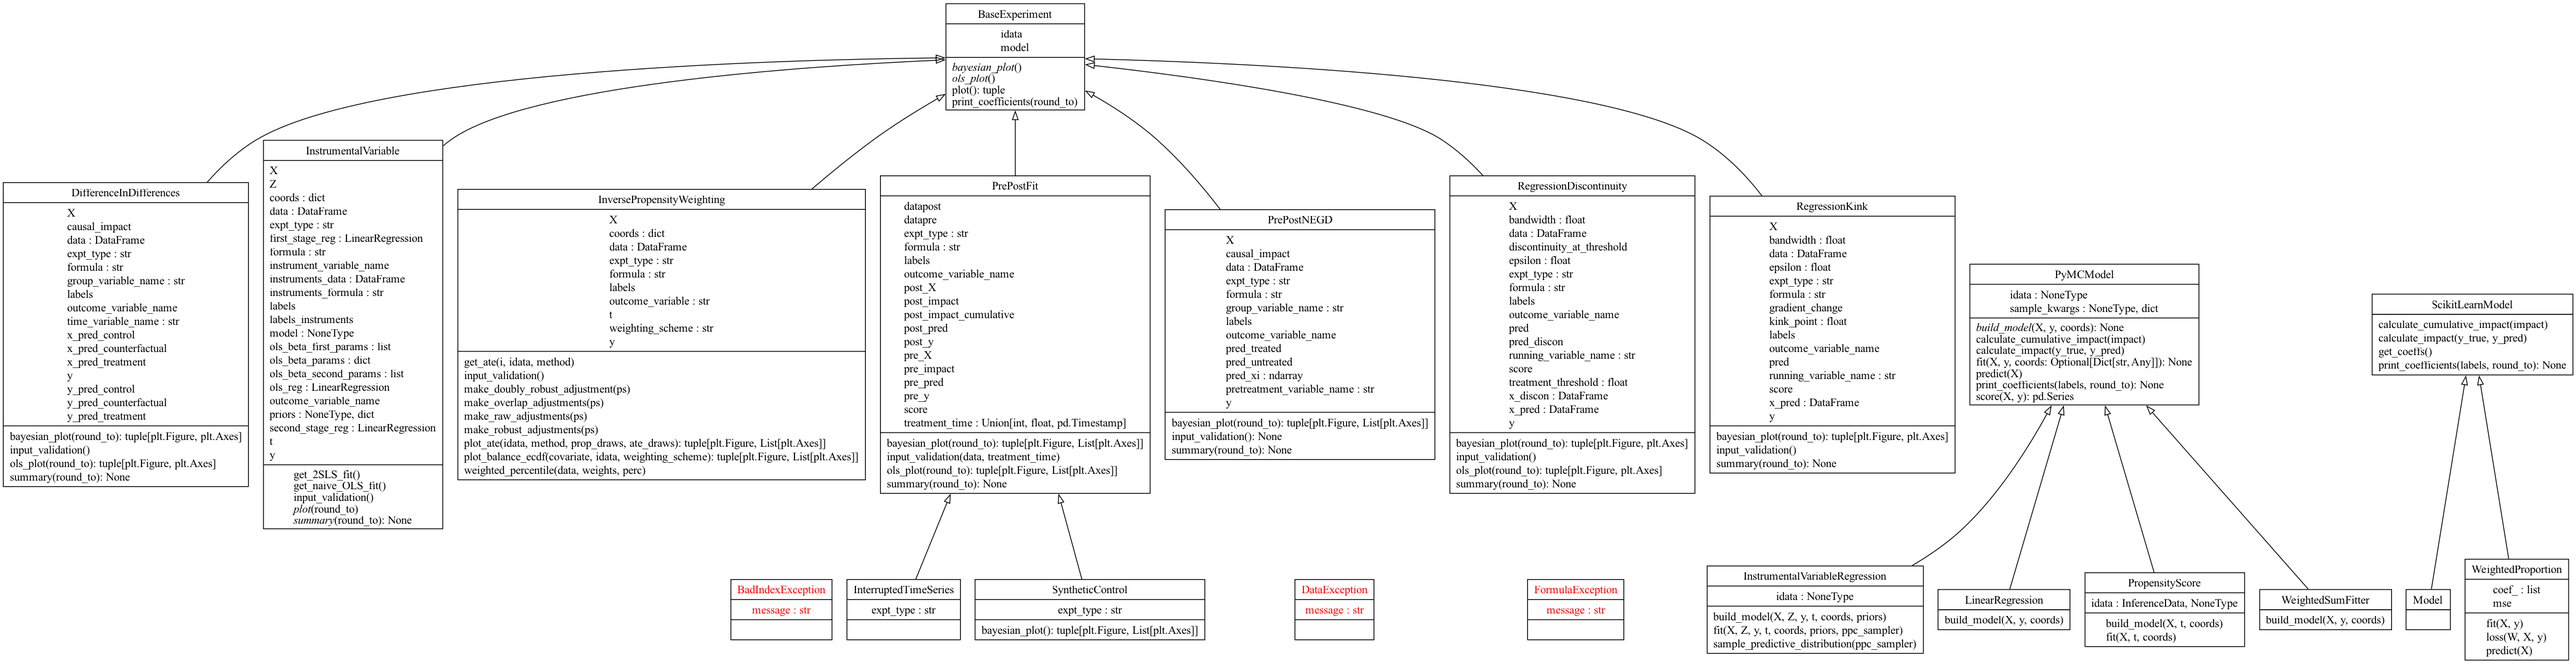
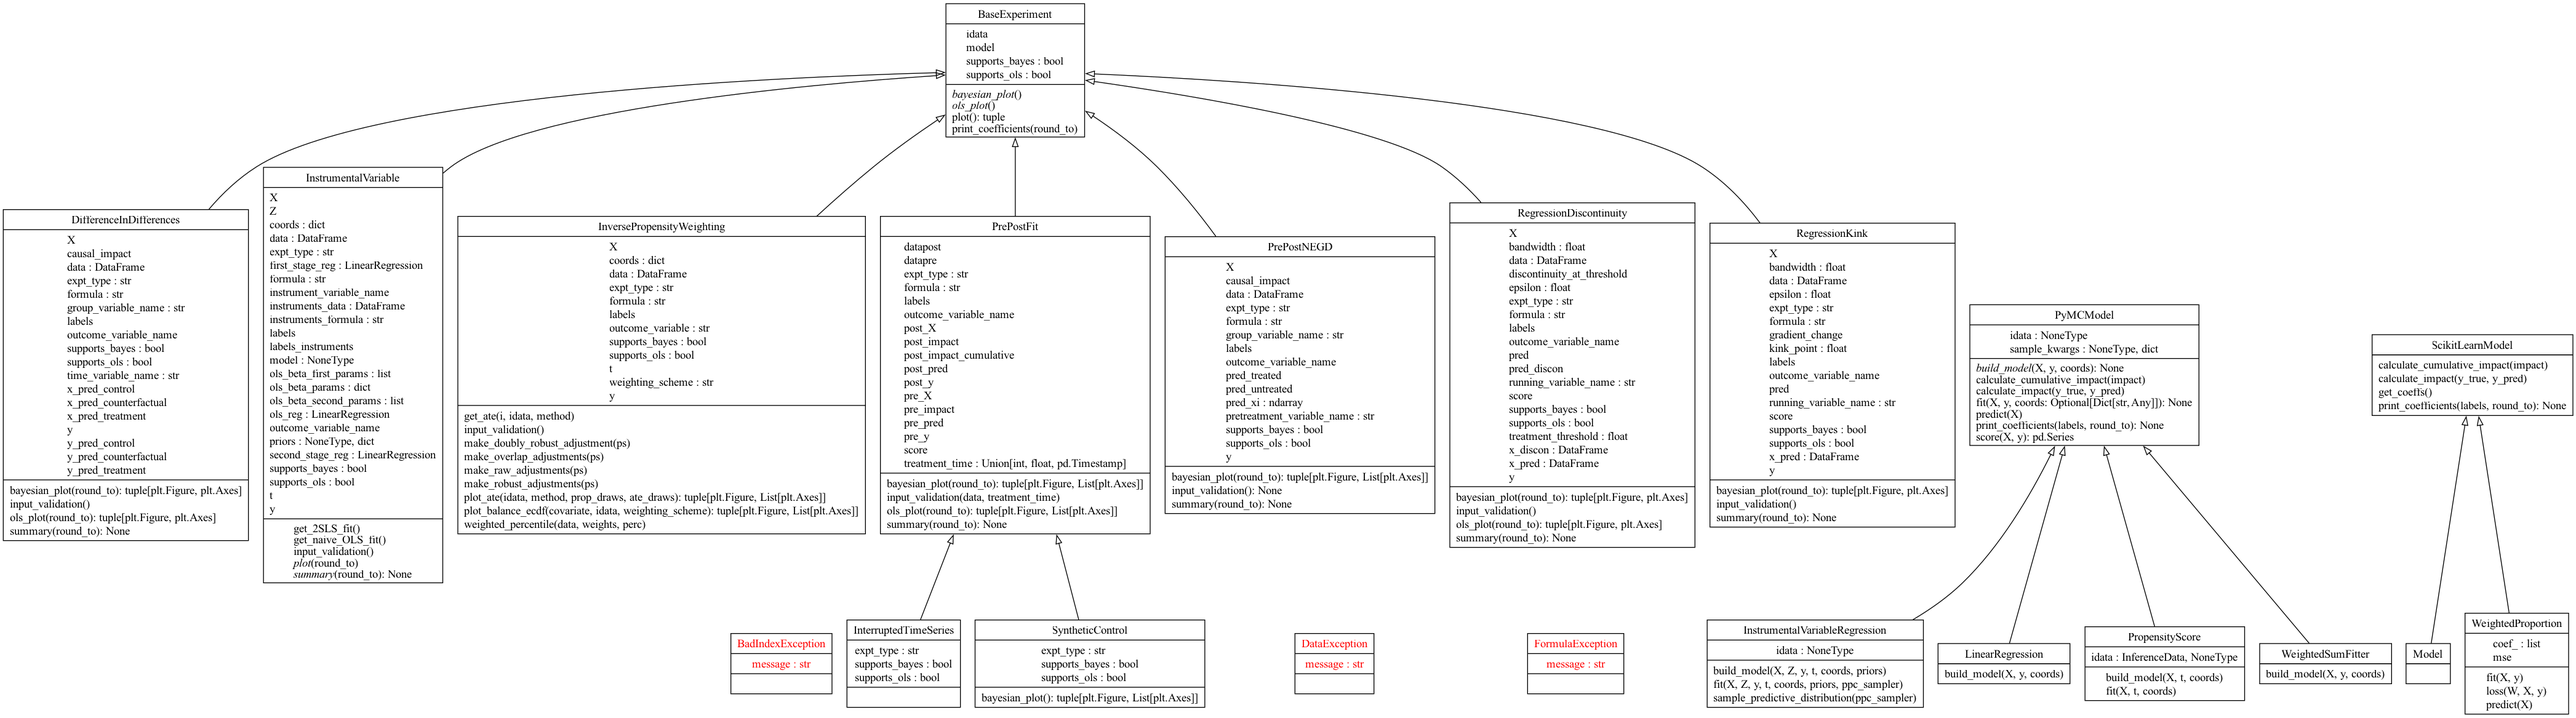
better model/experiment compatability

diff --git a/causalpy/tests/test_model_experiment_compatability.py b/causalpy/tests/test_model_experiment_compatability.py
@@ -1,0 +1,120 @@
+#   Copyright 2024 The PyMC Labs Developers
+#
+#   Licensed under the Apache License, Version 2.0 (the "License");
+#   you may not use this file except in compliance with the License.
+#   You may obtain a copy of the License at
+#
+#       http://www.apache.org/licenses/LICENSE-2.0
+#
+#   Unless required by applicable law or agreed to in writing, software
+#   distributed under the License is distributed on an "AS IS" BASIS,
+#   WITHOUT WARRANTIES OR CONDITIONS OF ANY KIND, either express or implied.
+#   See the License for the specific language governing permissions and
+#   limitations under the License.
+"""
+Test exceptions are raised when an experiment object is provided a model type (e.g.
+`PyMCModel` or `ScikitLearnModel`) that is not supported by the experiment object.
+"""
+
+import numpy as np
+import pandas as pd
+import pytest
+from sklearn.linear_model import LinearRegression
+
+import causalpy as cp
+
+CustomLinearRegression = cp.create_causalpy_compatible_class(LinearRegression)
+
+
+# TODO: THE TWO FUNCTIONS BELOW ARE COPIED FROM causalpy/tests/test_regression_kink.py
+
+
+def setup_regression_kink_data(kink):
+    """Set up data for regression kink design tests"""
+    # define parameters for data generation
+    seed = 42
+    rng = np.random.default_rng(seed)
+    N = 50
+    kink = 0.5
+    beta = [0, -1, 0, 2, 0]
+    sigma = 0.05
+    # generate data
+    x = rng.uniform(-1, 1, N)
+    y = reg_kink_function(x, beta, kink) + rng.normal(0, sigma, N)
+    return pd.DataFrame({"x": x, "y": y, "treated": x >= kink})
+
+
+def reg_kink_function(x, beta, kink):
+    """Utility function for regression kink design. Returns a piecewise linear function
+    evaluated at x with a kink at kink and parameters beta"""
+    return (
+        beta[0]
+        + beta[1] * x
+        + beta[2] * x**2
+        + beta[3] * (x - kink) * (x >= kink)
+        + beta[4] * (x - kink) ** 2 * (x >= kink)
+    )
+
+
+# Test that a ValueError is raised when a ScikitLearnModel is provided to a RegressionKink object
+def test_olsmodel_and_regressionkink():
+    """RegressionKink does not support OLS models, so a ValueError should be raised"""
+
+    with pytest.raises(ValueError):
+        kink = 0.5
+        df = setup_regression_kink_data(kink)
+        _ = cp.RegressionKink(
+            df,
+            formula=f"y ~ 1 + x + I((x-{kink})*treated)",
+            model=CustomLinearRegression(),
+            kink_point=kink,
+        )
+
+
+# Test that a ValueError is raised when a ScikitLearnModel is provided to a InstrumentalVariable object
+def test_olsmodel_and_iv():
+    """InstrumentalVariable does not support OLS models, so a ValueError should be raised"""
+
+    with pytest.raises(ValueError):
+        df = cp.load_data("risk")
+        instruments_formula = "risk  ~ 1 + logmort0"
+        formula = "loggdp ~  1 + risk"
+        instruments_data = df[["risk", "logmort0"]]
+        data = df[["loggdp", "risk"]]
+        _ = cp.InstrumentalVariable(
+            instruments_data=instruments_data,
+            data=data,
+            instruments_formula=instruments_formula,
+            formula=formula,
+            model=CustomLinearRegression(),
+        )
+
+
+# Test that a ValueError is raised when a ScikitLearnModel is provided to a PrePostNEGD object
+def test_olsmodel_and_prepostnegd():
+    """PrePostNEGD does not support OLS models, so a ValueError should be raised"""
+
+    with pytest.raises(ValueError):
+        df = cp.load_data("anova1")
+        _ = cp.PrePostNEGD(
+            df,
+            formula="post ~ 1 + C(group) + pre",
+            group_variable_name="group",
+            pretreatment_variable_name="pre",
+            model=CustomLinearRegression(),
+        )
+
+
+# Test that a ValueError is raised when a ScikitLearnModel is provided to a InversePropensityWeighting object
+def test_olsmodel_and_ipw():
+    """InversePropensityWeighting does not support OLS models, so a ValueError should be raised"""
+
+    with pytest.raises(ValueError):
+        df = cp.load_data("nhefs")
+        _ = cp.InversePropensityWeighting(
+            df,
+            formula="trt ~ 1 + age + race",
+            outcome_variable="outcome",
+            weighting_scheme="robust",
+            model=CustomLinearRegression(),
+        )

diff --git a/causalpy/experiments/base.py b/causalpy/experiments/base.py
@@ -24,11 +24,21 @@ from causalpy.skl_models import ScikitLearnModel
 class BaseExperiment:
     """Base class for quasi experimental designs."""
 
+    supports_bayes: bool
+    supports_ols: bool
+
     def __init__(self, model=None):
         if model is not None:
             self.model = model
+
+        if isinstance(self.model, PyMCModel) and not self.supports_bayes:
+            raise ValueError("Bayesian models not supported.")
+
+        if isinstance(self.model, ScikitLearnModel) and not self.supports_ols:
+            raise ValueError("OLS models not supported.")
+
         if self.model is None:
-            raise ValueError("fitting_model not set or passed.")
+            raise ValueError("model not set or passed.")
 
     @property
     def idata(self):

diff --git a/causalpy/experiments/prepostfit.py b/causalpy/experiments/prepostfit.py
@@ -342,6 +342,8 @@ class InterruptedTimeSeries(PrePostFit):
     """
 
     expt_type = "Interrupted Time Series"
+    supports_ols = True
+    supports_bayes = True
 
 
 class SyntheticControl(PrePostFit):
@@ -377,6 +379,8 @@ class SyntheticControl(PrePostFit):
     """
 
     expt_type = "SyntheticControl"
+    supports_ols = True
+    supports_bayes = True
 
     def bayesian_plot(self, *args, **kwargs) -> tuple[plt.Figure, List[plt.Axes]]:
         """

diff --git a/causalpy/experiments/regression_kink.py b/causalpy/experiments/regression_kink.py
@@ -41,6 +41,9 @@ LEGEND_FONT_SIZE = 12
 class RegressionKink(BaseExperiment):
     """Regression Kink experiment class."""
 
+    supports_ols = False
+    supports_bayes = True
+
     def __init__(
         self,
         data: pd.DataFrame,

diff --git a/causalpy/experiments/prepostnegd.py b/causalpy/experiments/prepostnegd.py
@@ -84,6 +84,9 @@ class PrePostNEGD(BaseExperiment):
         sigma          0.5, 94% HDI [0.5, 0.6]
     """
 
+    supports_ols = False
+    supports_bayes = True
+
     def __init__(
         self,
         data: pd.DataFrame,

diff --git a/causalpy/experiments/instrumental_variable.py b/causalpy/experiments/instrumental_variable.py
@@ -88,6 +88,9 @@ class InstrumentalVariable(BaseExperiment):
     ... )
     """
 
+    supports_ols = False
+    supports_bayes = True
+
     def __init__(
         self,
         instruments_data: pd.DataFrame,

diff --git a/causalpy/experiments/inverse_propensity_weighting.py b/causalpy/experiments/inverse_propensity_weighting.py
@@ -69,6 +69,9 @@ class InversePropensityWeighting(BaseExperiment):
     ... )
     """
 
+    supports_ols = False
+    supports_bayes = True
+
     def __init__(
         self,
         data: pd.DataFrame,

diff --git a/causalpy/experiments/diff_in_diff.py b/causalpy/experiments/diff_in_diff.py
@@ -74,6 +74,9 @@ class DifferenceInDifferences(BaseExperiment):
     ...  )
     """
 
+    supports_ols = True
+    supports_bayes = True
+
     def __init__(
         self,
         data: pd.DataFrame,

diff --git a/causalpy/experiments/regression_discontinuity.py b/causalpy/experiments/regression_discontinuity.py
@@ -78,6 +78,9 @@ class RegressionDiscontinuity(BaseExperiment):
     ... )
     """
 
+    supports_ols = True
+    supports_bayes = True
+
     def __init__(
         self,
         data: pd.DataFrame,
